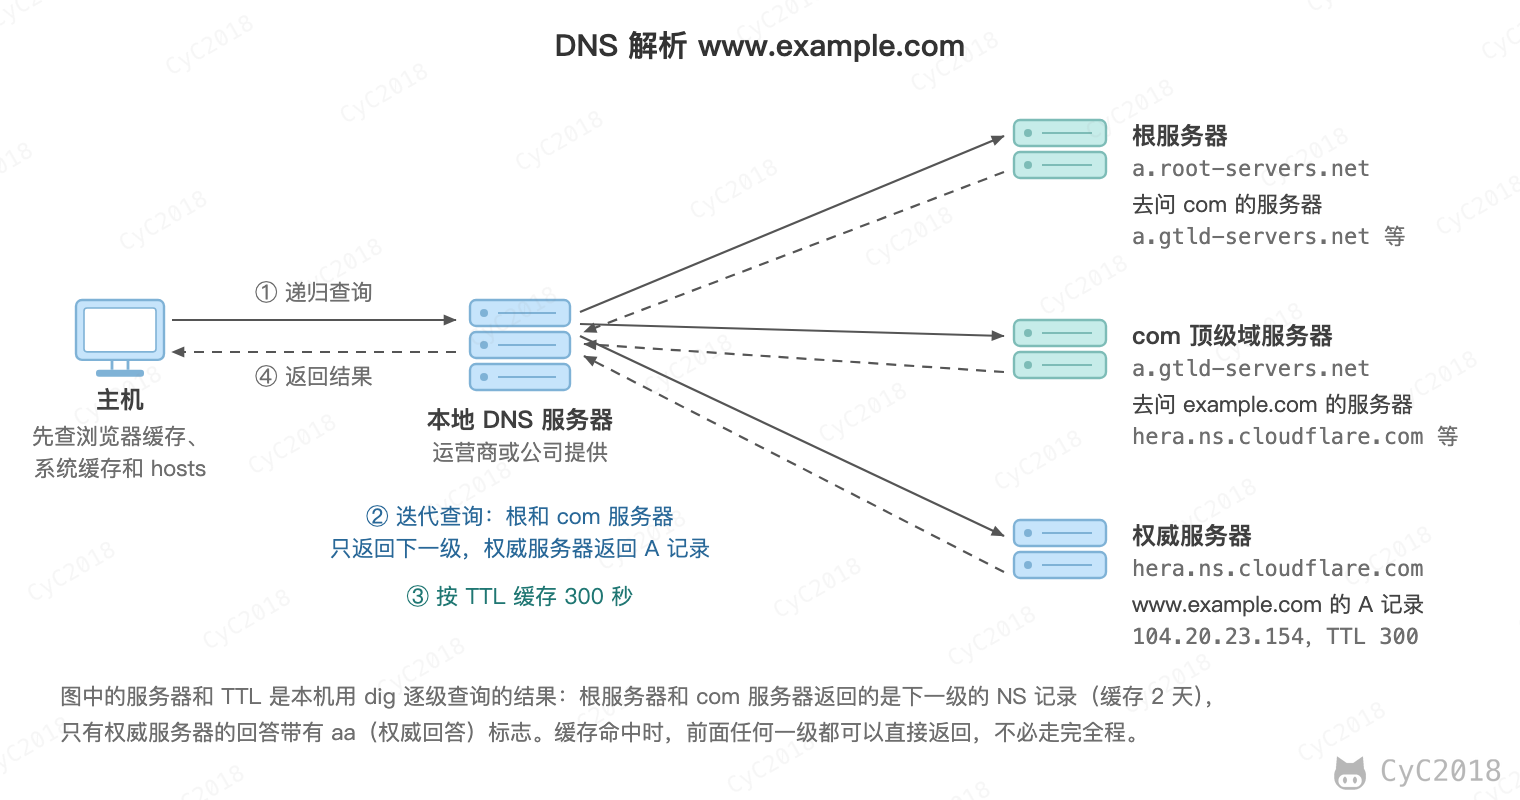
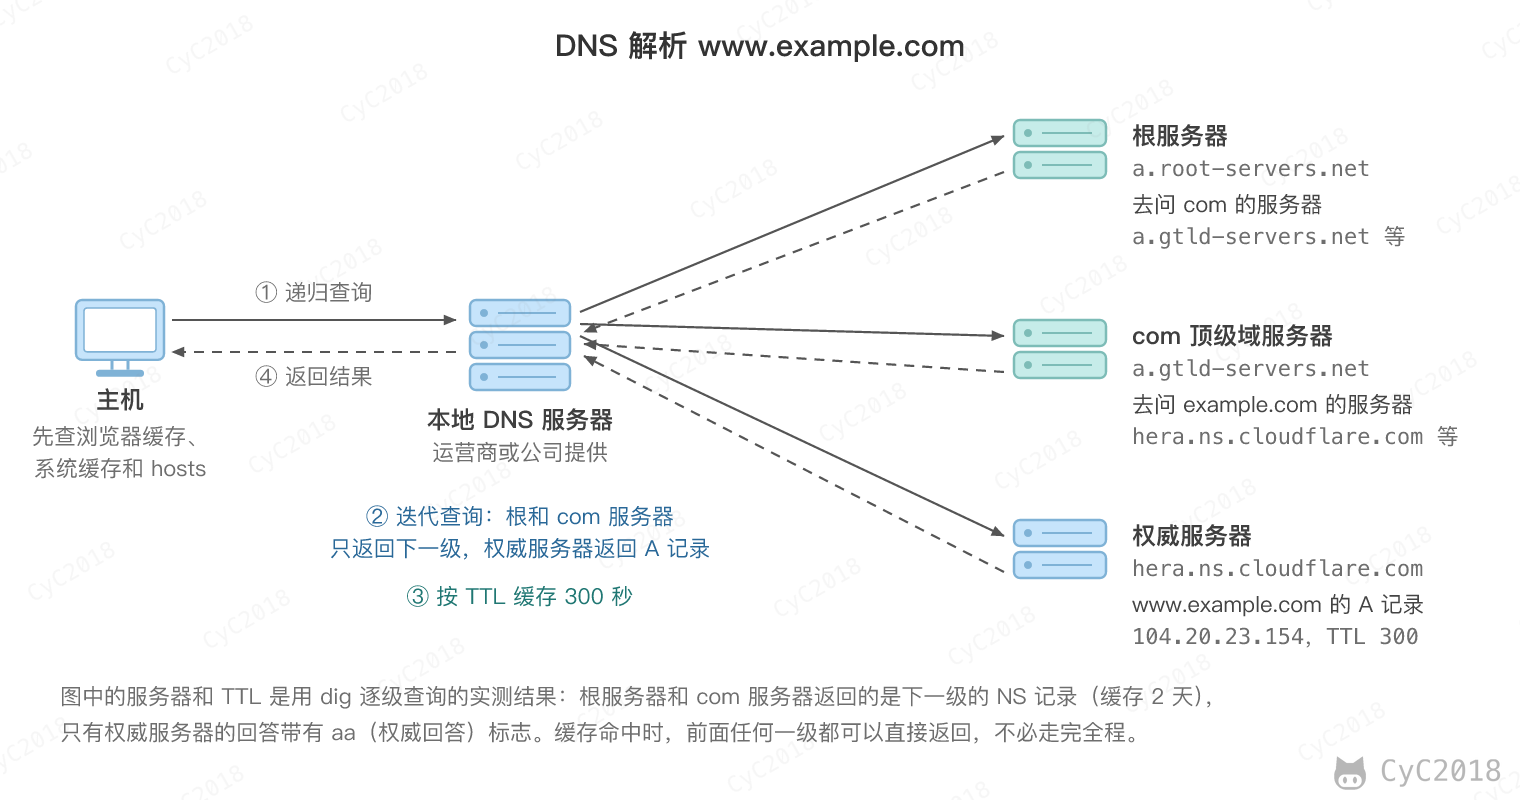
Update 计算机网络 - 应用层.md
域名改为代码格式，避免被识别为链接；调整两张配图的说明。

diff --git a/notes/计算机网络 - 应用层.md b/notes/计算机网络 - 应用层.md
@@ -27,7 +27,7 @@
 
 DNS 是一个分布式数据库，提供了主机名和 IP 地址之间相互转换的服务。这里的分布式数据库是指，每个站点只保留它自己的那部分数据。
 
-域名具有层次结构，从上到下依次为：根域名、顶级域名、二级域名。例如 com 是顶级域名，example.com 是二级域名，www.example.com 是三级域名；完整的写法是 www.example.com.，最右边的点代表根。
+域名具有层次结构，从上到下依次为：根域名、顶级域名、二级域名。例如 com 是顶级域名，example.com 是二级域名，www.example.com 是三级域名；完整的写法是 `www.example.com.`，最右边的点代表根。
 
 以解析 www.example.com 为例：主机先查浏览器缓存、操作系统缓存和 hosts 文件，没有命中就向本地 DNS 服务器查询。本地 DNS 服务器依次询问根服务器、com 顶级域服务器和 example.com 的权威服务器，前两者只返回下一级服务器的地址，权威服务器返回最终的 IP 地址。
 
@@ -35,7 +35,7 @@ DNS 是一个分布式数据库，提供了主机名和 IP 地址之间相互转
 
 主机到本地 DNS 服务器是递归查询，主机只等最终结果；本地 DNS 服务器到其它服务器是迭代查询，由它自己一步步问下去。每一级的结果都按 TTL 缓存，所以大多数查询在本地 DNS 服务器甚至主机上就能得到结果。
 
-TTL 是每条记录自带的缓存时间，单位为秒，由权威服务器给出，缓存中的记录每过一秒剩余时间减 1。例如把公共 DNS 223.5.5.5 作为本地 DNS 服务器，查询 www.jd.com（dig 实测，见[附录 A2](#a2-dns-的-ttl-与-cname)）：
+TTL 是每条记录自带的缓存时间，单位为秒，由权威服务器给出，缓存中的记录每过一秒剩余时间减 1。例如把公共 DNS 223.5.5.5 作为本地 DNS 服务器，查询 `www.jd.com`（dig 实测，见[附录 A2](#a2-dns-的-ttl-与-cname)）：
 
 ```text
 www.jd.com.                           74  IN  CNAME  www.jd.com.gslb.qianxun.com.
@@ -142,10 +142,10 @@ IMAP 协议中客户端和服务器上的邮件保持同步，如果不手动删
 
 在浏览器中输入 https://www.example.com/ 并回车后，主要经过以下步骤：
 
-1. 浏览器解析 URL，得到协议 https、主机名 www.example.com、端口（省略时 https 为 443）和路径 /，各部分的含义见 [URL](HTTP.md#url)，然后检查缓存，有未过期的缓存时直接使用，见 [缓存](HTTP.md#缓存)；
-2. DNS 解析主机名 www.example.com，得到 IP 地址，路径和参数不参与解析；
+1. 浏览器解析 URL，得到协议 https、主机名 `www.example.com`、端口（省略时 https 为 443）和路径 /，各部分的含义见 [URL](HTTP.md#url)，然后检查缓存，有未过期的缓存时直接使用，见 [缓存](HTTP.md#缓存)；
+2. DNS 解析主机名 `www.example.com`，得到 IP 地址，路径和参数不参与解析；
 3. 与服务器进行 TCP 三次握手，HTTPS 还要进行 TLS 握手；
-4. 发送 HTTP 请求。请求通常先到达负载均衡或[反向代理](集群.md#3-反向代理服务器)（例如 Nginx），再转发给某台应用服务器，应用服务器查询缓存或数据库后生成响应。如果响应是重定向，例如只输入 baidu.com 时浏览器补上协议后访问，得到 301 和 Location: https://www.baidu.com/（见[附录 A3](#a3-省略协议时的重定向)），浏览器对新地址重新走一遍前面的步骤；
+4. 发送 HTTP 请求。请求通常先到达负载均衡或[反向代理](集群.md#3-反向代理服务器)（例如 Nginx），再转发给某台应用服务器，应用服务器查询缓存或数据库后生成响应。如果响应是重定向，例如只输入 baidu.com 时浏览器补上协议后访问，得到 301 和 `Location: https://www.baidu.com/`（见[附录 A3](#a3-省略协议时的重定向)），浏览器对新地址重新走一遍前面的步骤；
 5. 浏览器解析 HTML 构建 DOM 树，解析 CSS 构建 CSSOM，两者合成渲染树，再计算每个元素的位置和大小（布局），最后绘制到屏幕上。解析中遇到 CSS、JavaScript、图片等外部资源时另发请求，不带 async 或 defer 的普通脚本（type 不是 module）会暂停 HTML 的解析，直到脚本下载并执行完；
 6. 连接保持一段时间供后续请求复用，空闲后关闭，见 [短连接与长连接](HTTP.md#1-短连接与长连接)。
 
